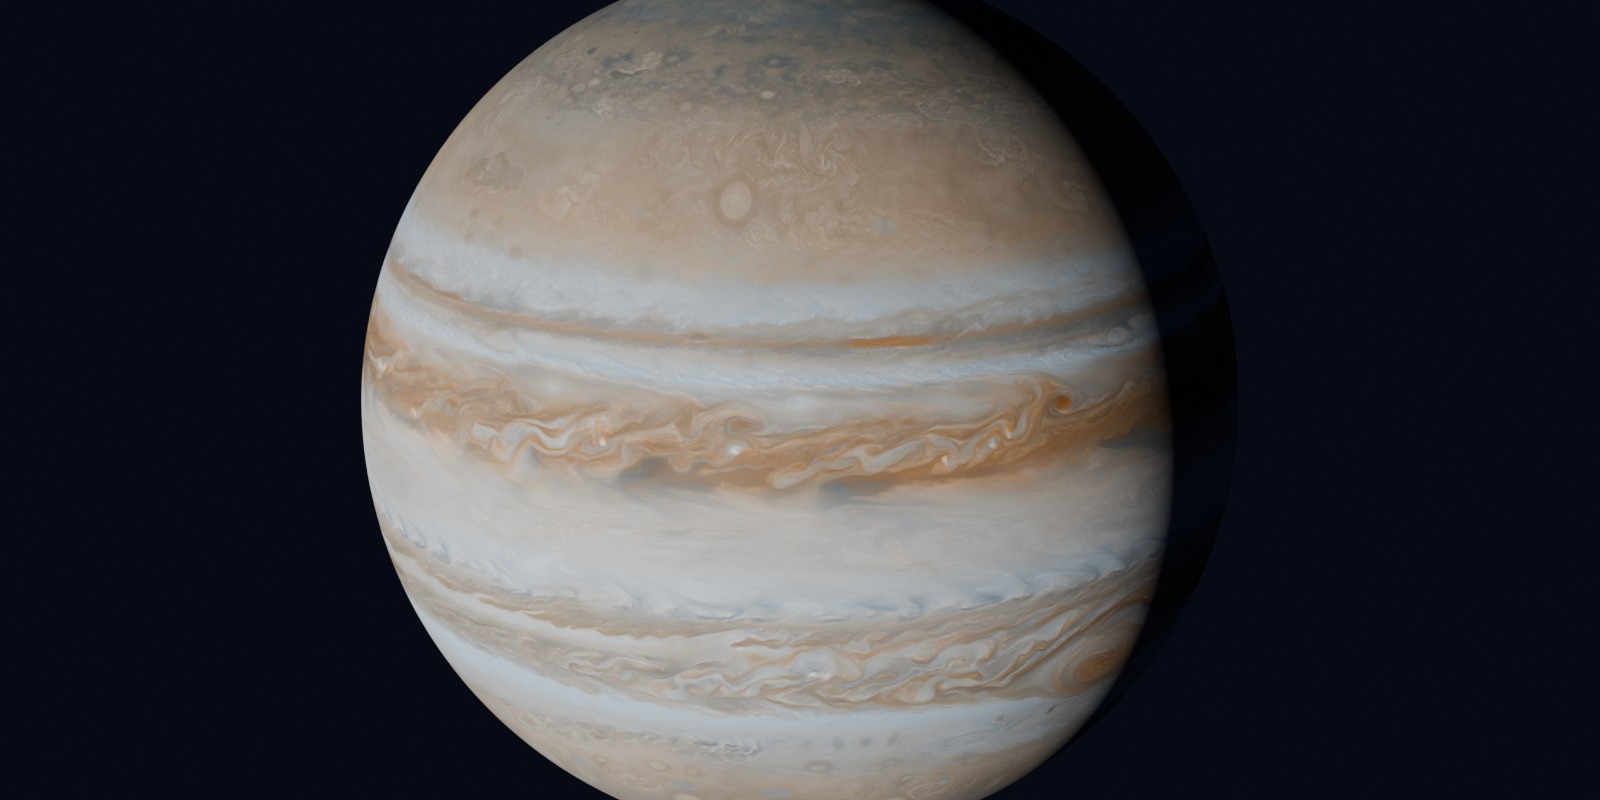
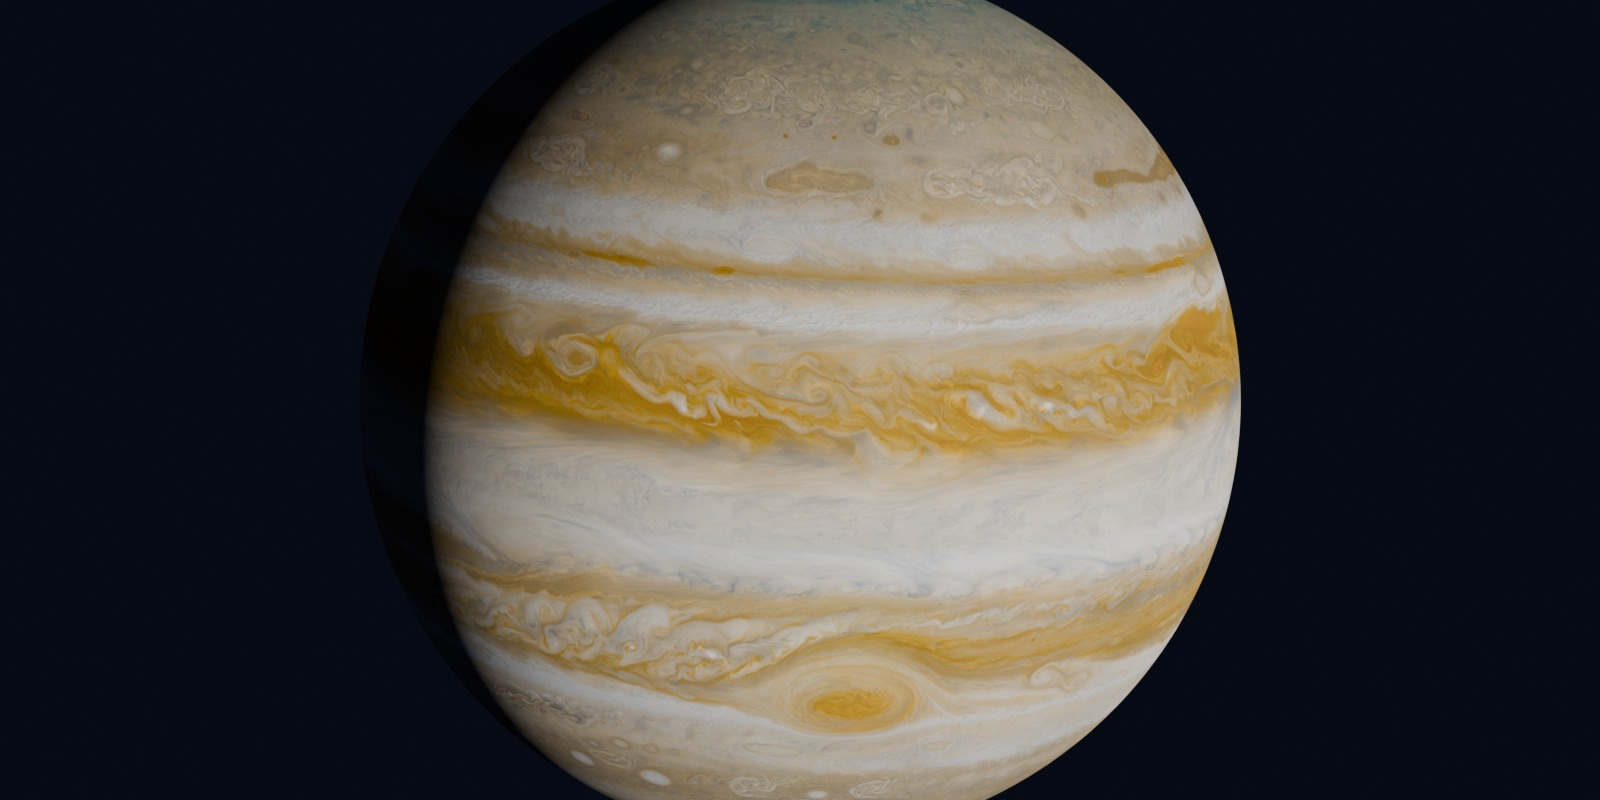
Planet tests: Juno Jupiter, lit rings, colour Iapetus, saturn1 view angle
Jupiter — the washed-out look was the source, not the grade. Measured three
candidates: Solar System Scope artist texture (4096 real, sat 0.137, no resolved
structure), Voyager 2 2025 (5760 real, sat 0.111 — real spacecraft colour but
the palest of the three, so switching to it made things worse), and the Cassini
+ Juno merge (14400 real, sat 0.137). The merge wins on every axis: honest to
~62 deg, and it carries the swirling structure — festoons, white ovals, the
turbulent wake off the Great Red Spot. Spun to put the GRS on the visible face,
graded +35% sat / +0.15 contrast.

Saturn — two separate defects:
- The ring "bullseye" was the tilt AXIS, not the camera. Applied about X, the
  26.7 deg axial tilt turned the ring plane to face the viewer, so the rings
  stayed ~41 deg open wherever the camera sat. About Y the tilt reads as a
  sideways lean and camera elevation alone sets the opening — now ~12 deg, the
  near-edge-on look of the saturn1 scene.
- The rings then rendered as a black silhouette. The annulus is single-sided:
  ring normal (0.449, 0, 0.893) vs light direction (0.643, 0.766, 0) gives
  L·N = +0.289, i.e. the sun was lighting the BACK face while the camera sat on
  the front. Sun azimuth flipped -40 -> +40 makes it -0.289. This only became
  visible once the view went near-edge-on.

Iapetus — the colour mosaic (11741) instead of the mono, spun so the two-tone
Cassini Regio boundary faces the camera. Spinning alone put that half in night,
[…]

diff --git a/scripts/render_planets.py b/scripts/render_planets.py
@@ -48,13 +48,39 @@ PREV = Path(__file__).resolve().parent.parent / "upscale" / "planet_prev"
 # body fills a large part of the view.
 SEGMENTS, RINGS = 256, 128
 
-# Axial tilt (degrees) applied about X so the poles do not sit dead vertical — a body lit and
-# tilted reads as a world, a body square-on reads as a sticker. Venus is retrograde (177°),
-# which is why its "north" ends up nearly upside down; that is correct, not a bug.
+# Axial tilt (degrees), applied about Y so the pole leans SIDEWAYS in view rather than
+# toward the camera. For Saturn this is the difference between a wide-open bullseye of rings
+# and the near-edge-on look of the saturn1 scene: with the tilt about X the ring plane was
+# turned to face the viewer, so even a low camera saw them opened ~41 deg. About Y, the ring
+# opening is set by camera elevation alone (see render_preview) and the tilt reads as a lean.
+# Venus is retrograde (177 deg), which is why its "north" ends up nearly upside down; that is
+# correct, not a bug.
+#
+# `grade` optionally boosts saturation/contrast. Real spacecraft colour for the gas giants is
+# genuinely pale — the Voyager map below measures LESS saturated (0.111) than the artist
+# texture it replaces (0.137) — so accuracy alone reads as washed out. The map is used for
+# its structure, which is far better, and the grade puts the punch back.
 BODIES = {
-    "iapetus": {"map": "iapetus_map_8192.png", "tilt": 15.5},
-    "jupiter": {"map": "jupiter_map_8192.png", "tilt": 3.1},
-    "saturn":  {"map": "saturn_map_8192.png",  "tilt": 26.7, "rings": True},
+    # The colour mosaic, not the mono one: Iapetus's whole point is the two-tone split
+    # between the bright trailing side and the dark Cassini Regio, which mono throws away.
+    # 11741 px wide, so it also outresolves the 8192 mono.
+    # sun_z: a shallow -20 deg instead of the default +40. The spin brought the dark
+    # Cassini Regio round to face the camera, but the default sun then put that half in
+    # night — a rotated body lit by an unmoved sun. This lights the side the spin exposes
+    # and leaves only a soft terminator.
+    "iapetus": {"map": "Iapetus_Color_Map.jpg", "tilt": 15.5, "spin": 0.75,
+                "sun_z": -0.35},
+    # Cassini (Dec 2000) global coverage merged with Juno polar imagery by Björn Jónsson,
+    # 14400x7200 REAL — honest to ~62 deg, so this is the one body that can fill a lot of
+    # view and stay sharp. Chosen over both the Solar System Scope artist texture (4096, no
+    # resolved structure) and the Voyager 2 map (5760, but measurably the palest of the
+    # three) because it actually carries the swirling cloud structure: festoons, white ovals,
+    # the turbulent wake downstream of the Great Red Spot.
+    # `spin` puts the GRS on the visible face — the biggest swirl on the planet.
+    "jupiter": {"map": "jupiter_css_juno_14400.jpg", "tilt": 3.1, "spin": 0.58,
+                "grade": {"sat": 1.35, "contrast": 0.15}},
+    "saturn":  {"map": "saturn_map_8192.png",  "tilt": 26.7, "rings": True,
+                "grade": {"sat": 1.25, "contrast": 0.05}},
     "venus":   {"map": "Solarsystemscope_texture_8k_venus_surface.jpg", "tilt": 177.4},
 }
 
@@ -76,7 +102,19 @@ RING_SEGMENTS = 512
 # map with no ring shadow in it at all. Keeping the light horizontal means the tilt alone
 # sets the elevation (~20 deg here), which is both real and steep enough to land the shadow
 # on the lit hemisphere where it can be seen.
-SUN_EULER = (1.5708, 0.0, -0.698)   # radians (90 deg about X, -40 about Z)
+#
+# The SIGN of the Z term is not cosmetic — it decides which face of Saturn's rings is lit.
+# The ring normal after the 26.7 deg tilt is (0.449, 0, 0.893) and the camera sits on its
+# positive side. At Z = -40 the light direction is (0.643, 0.766, 0), so L·N = +0.289: the
+# sun struck the BACK of the ring plane and the camera saw an unlit silhouette — the rings
+# read as black bands. At Z = +40, L = (-0.643, 0.766, 0) and L·N = -0.289, lighting the face
+# the camera actually sees. A single-sided flat annulus makes this an either/or.
+SUN_EULER = (1.5708, 0.0, 0.698)    # radians (90 deg about X, +40 about Z)
+
+# Per-body sun azimuth override (radians about Z), for bodies whose interesting feature is
+# not where the default sun leaves it. One sun cannot serve every body: the azimuth that
+# lights Saturn's rings also decides how much of Iapetus is in night.
+SUN_Z_DEFAULT = 0.698
 BAKE_SIZE = 8192   # match the source map; 4096 halved the angular resolution the "huge vs sharp" budget assumed
 
 
@@ -101,10 +139,11 @@ def reset_scene():
     scene.cycles.samples = 256
 
 
-def add_sun():
+def add_sun(sun_z=None):
     bpy.ops.object.light_add(type="SUN", location=(0, 0, 0))
     sun = bpy.context.object
-    sun.rotation_euler = SUN_EULER
+    sun.rotation_euler = (SUN_EULER[0], SUN_EULER[1],
+                          SUN_Z_DEFAULT if sun_z is None else sun_z)
     sun.data.energy = 4.0
     # A real sun is not a point at this distance, and a hard-edged ring shadow looks CG.
     # ~0.53° is the sun's actual angular diameter from Earth; from Saturn it is far smaller,
@@ -113,14 +152,32 @@ def add_sun():
     return sun
 
 
-def make_globe(name, map_path, tilt_deg):
+def make_globe(name, map_path, tilt_deg, grade=None, spin=0.0):
     bpy.ops.mesh.primitive_uv_sphere_add(segments=SEGMENTS, ring_count=RINGS, radius=1.0)
     globe = bpy.context.object
     globe.name = name
     bpy.ops.object.shade_smooth()
     # The UV sphere primitive's default unwrap is already equirectangular (u wraps longitude,
     # v runs pole to pole), which is exactly how these maps are authored — no reprojection.
-    globe.rotation_euler = (tilt_deg * 3.14159265 / 180.0, 0, 0)
+    # Tilt about Y — see the note on BODIES for why not X.
+    globe.rotation_euler = (0, tilt_deg * 3.14159265 / 180.0, 0)
+
+    # `spin` turns the body about its own polar axis by shifting the equirect u coordinate,
+    # choosing which longitude faces the camera. It decides whether Iapetus shows its famous
+    # two-tone boundary or just a grey hemisphere.
+    #
+    # Done by editing the mesh UVs, NOT with a Mapping node. A Mapping node works in Cycles
+    # but Blender does not write it into the USD — checked, and the exported .usdc had no
+    # UsdTransform2d — so the preview would have shown a spun body while the actual asset
+    # shipped unspun. UVs are mesh data and always export.
+    #
+    # No modulo: values outside [0,1] are fine with REPEAT extension, whereas wrapping them
+    # would leave the faces spanning the seam with u running 0.99 -> 0.01 and smear the whole
+    # texture across that column.
+    if spin:
+        tex_layer = globe.data.uv_layers.active.data
+        for loop in tex_layer:
+            loop.uv[0] += spin
 
     mat = bpy.data.materials.new(f"{name}_mat")
     mat.use_nodes = True
@@ -130,7 +187,23 @@ def make_globe(name, map_path, tilt_deg):
     # Colour maps are authored in sRGB; the default guess is right for jpg but be explicit so
     # the png-vs-jpg sources cannot end up graded differently from each other.
     tex.image.colorspace_settings.name = "sRGB"
-    mat.node_tree.links.new(bsdf.inputs["Base Color"], tex.outputs["Color"])
+
+    # Optional grade between the map and the shader. Done in nodes rather than by editing the
+    # source file so the map on disk stays the untouched original — the grade is a look, and
+    # looks get revised.
+    src = tex.outputs["Color"]
+    if grade:
+        hs = mat.node_tree.nodes.new("ShaderNodeHueSaturation")
+        hs.inputs["Saturation"].default_value = grade.get("sat", 1.0)
+        mat.node_tree.links.new(hs.inputs["Color"], src)
+        src = hs.outputs["Color"]
+        if grade.get("contrast"):
+            bc = mat.node_tree.nodes.new("ShaderNodeBrightContrast")
+            bc.inputs["Contrast"].default_value = grade["contrast"]
+            mat.node_tree.links.new(bc.inputs["Color"], src)
+            src = bc.outputs["Color"]
+
+    mat.node_tree.links.new(bsdf.inputs["Base Color"], src)
     bsdf.inputs["Roughness"].default_value = 0.9   # no specular hotspot on a rock or a cloud deck
     bsdf.inputs["Metallic"].default_value = 0.0
     globe.data.materials.append(mat)
@@ -215,8 +288,8 @@ def build(body, do_bake, do_preview=False):
         return
     log(f"=== {body} ({map_path.name}) ===")
     reset_scene()
-    add_sun()
-    globe, mat, tex = make_globe(body, map_path, spec["tilt"])
+    add_sun(spec.get("sun_z"))
+    globe, mat, tex = make_globe(body, map_path, spec["tilt"], spec.get("grade"), spec.get("spin", 0.0))
     objects = [globe]
     if spec.get("rings"):
         rings = make_rings(body)
@@ -302,9 +375,13 @@ def render_preview(objects, name, r_eff):
     # background, which is what makes a render read as a cutout.
     world.node_tree.nodes["Background"].inputs["Color"].default_value = (0.004, 0.005, 0.011, 1)
 
-    # 5x the effective radius puts the body at ~55% of frame width. Elevated by 1.3x so
-    # Saturn's rings open up instead of collapsing to a line.
-    bpy.ops.object.camera_add(location=(0, -5.0 * r_eff, 1.3 * r_eff))
+    # 5x the effective radius puts the body at ~55% of frame width.
+    #
+    # Elevation is the ring-opening control now that the axial tilt leans sideways rather
+    # than toward the camera: opening = asin(cos(tilt) * z / hypot(d, z)). At z = 1.2 that is
+    # ~12 deg, i.e. the near-edge-on read of the saturn1 scene, rather than the ~41 deg
+    # bullseye the tilt-toward-camera setup produced regardless of where the camera sat.
+    bpy.ops.object.camera_add(location=(0, -5.0 * r_eff, 1.2 * r_eff))
     cam = bpy.context.object
     scene.camera = cam
     track = cam.constraints.new(type="TRACK_TO")

diff --git a/scripts/add_planets_to_triage.py b/scripts/add_planets_to_triage.py
@@ -27,14 +27,22 @@ CARDS = [
     ("saturn",       "Saturn — live lighting",
      "8192 map (4096 real under SR) · honest to ~29&deg; · rings span 2.27 R"),
     ("saturn_baked", "Saturn — ring shadow baked",
-     "Cycles bake at 8192, globe unlit &middot; the shadow ON THE GLOBE is baked in and "
-     "survives into RealityKit &middot; the globe's shadow ACROSS THE RINGS is live Cycles "
-     "here and will NOT appear in the app yet (ring UV is 1-D, nothing to bake into)"),
-    ("jupiter",      "Jupiter",
-     "8192 map (4096 real under SR) · honest to ~29&deg;"),
-    ("iapetus",      "Iapetus &mdash; mono mosaic",
-     "8192 from the Cassini/Voyager mono mosaic &middot; honest to ~47&deg; &middot; "
-     "the 11741 colour map would reach ~59&deg; but has smeared poles and seams"),
+     "Cycles bake at 8192, globe unlit &middot; <b>should look near-identical to the card "
+     "above — that is the pass condition</b>, it means the bake reproduced the ray-traced "
+     "lighting faithfully (measured: mean diff 0.25/255, 2.7% of pixels). The difference "
+     "only appears IN THE APP, where the live-lit version loses the ring shadow entirely "
+     "because RealityKit cannot cast it &middot; caveat: the globe's shadow ACROSS THE RINGS "
+     "is live Cycles here and will NOT survive (ring UV is 1-D, nothing to bake into)"),
+    ("jupiter",      "Jupiter &mdash; Cassini + Juno",
+     "14400 REAL (Björn Jónsson) vs 4096 for the artist texture it replaces &middot; honest "
+     "to ~62&deg;, the sharpest body here &middot; spun to put the Great Red Spot on the "
+     "visible face &middot; graded +35% sat, +0.15 contrast &middot; poles are partly "
+     "synthetic where Juno data was blended in &middot; ⚠ redistribution needs a call, "
+     "see CREDITS.md"),
+    ("iapetus",      "Iapetus &mdash; colour mosaic",
+     "11741 real Cassini/Voyager colour &middot; honest to ~59&deg; &middot; the two-tone "
+     "split (bright trailing side vs dark Cassini Regio) is the point &middot; known "
+     "defects: smeared poles, mosaic seams, green cast near the terminator"),
     ("venus",        "Venus",
      "8192 real (SSS surface) &middot; honest to ~47&deg; &middot; "
      "retrograde, so north reads inverted"),

diff --git a/Float/Resources/Textures/CREDITS.md b/Float/Resources/Textures/CREDITS.md
@@ -552,3 +552,51 @@ Scripts: `scripts/fetch_unwise.py` + `upscale/allsky_rgb.py`.
   HiPS: CDS, Strasbourg."
 - **Citations:** Lang 2014 (AJ 147, 108); Meisner, Lang & Schlegel 2017
   (AJ 154, 161); Wright et al. 2010 (WISE); Mainzer et al. 2011 (NEOWISE).
+
+## Planet / moon surface maps (geometry test bodies)
+
+These drive the USDZ bodies built by `scripts/render_planets.py`. The maps
+themselves live on the scratch volume (`FloatScratch/planets/`), NOT in this
+repo — see the redistribution note below.
+
+`jupiter_css_juno_14400.jpg` — Cassini + Juno merged global map of Jupiter,
+14400×7200, by **Björn Jónsson** (2018), hosted by The Planetary Society
+(<https://www.planetary.org/articles/0514-juno-meets-cassini-a-new>). Cassini's
+near-global coverage from December 2000 with Juno's superior polar imagery
+merged in. Chosen for the swirling cloud structure — festoons, white ovals, the
+turbulent wake downstream of the Great Red Spot — which neither of the
+alternatives carried:
+
+| candidate | real px | saturation | verdict |
+|---|---|---|---|
+| Solar System Scope artist texture | 4096 | 0.137 | no resolved structure |
+| Voyager 2 (2025, Jónsson) | 5760 | 0.111 | real colour, but the palest of the three |
+| **Cassini + Juno (Jónsson)** | **14400** | 0.137 | swirls resolved; honest to ~62° |
+
+Note the map is partially "fictional" at the poles, as the author says on the
+TPS page: Juno polar data is blended into Cassini coverage that did not extend
+there. Rendered with +35% saturation and +0.15 contrast — real Jovian colour is
+genuinely pale and reads as washed out on its own.
+
+- **Terms:** "publicly available… you do not need a special permission to use
+  them but if you do then please mention their origin." Credit line:
+  **"Jupiter map created by Björn Jónsson (Cassini/Juno data, NASA/JPL)."**
+- **⚠ REDISTRIBUTION — needs a human decision.** The same author asks: *"please
+  do not place a copy of the maps on your website."* This repo is **public** on
+  GitHub, so committing the map file — or a USDZ with the full-res map embedded
+  — arguably is exactly that. Rendered images derived from it (the triage
+  previews) are clearly fine and are what the author says he'd like to see.
+  Resolve before any planet asset ships inside `Float/Resources/`.
+- **Underlying data:** NASA/JPL Cassini and Juno, public domain.
+
+`Iapetus_Color_Map.jpg` — Cassini/Voyager colour mosaic of Iapetus,
+11741×5871, NASA/JPL-Caltech/Space Science Institute (USGS Astrogeology).
+Public domain. Replaced the mono mosaic, which threw away the two-tone split
+between the bright trailing hemisphere and the dark Cassini Regio — the one
+thing Iapetus is known for. Known defects: smeared poles, visible mosaic
+seams, and a green cast near the terminator boundary.
+
+`saturn_map_8192.png`, `Solarsystemscope_texture_8k_venus_surface.jpg`,
+`Solarsystemscope_texture_8k_saturn_ring_alpha.png` — Solar System Scope
+(<https://www.solarsystemscope.com/textures/>), CC BY 4.0. Attribution
+required. Saturn's globe is only 4096 real under the 8192 SR.
